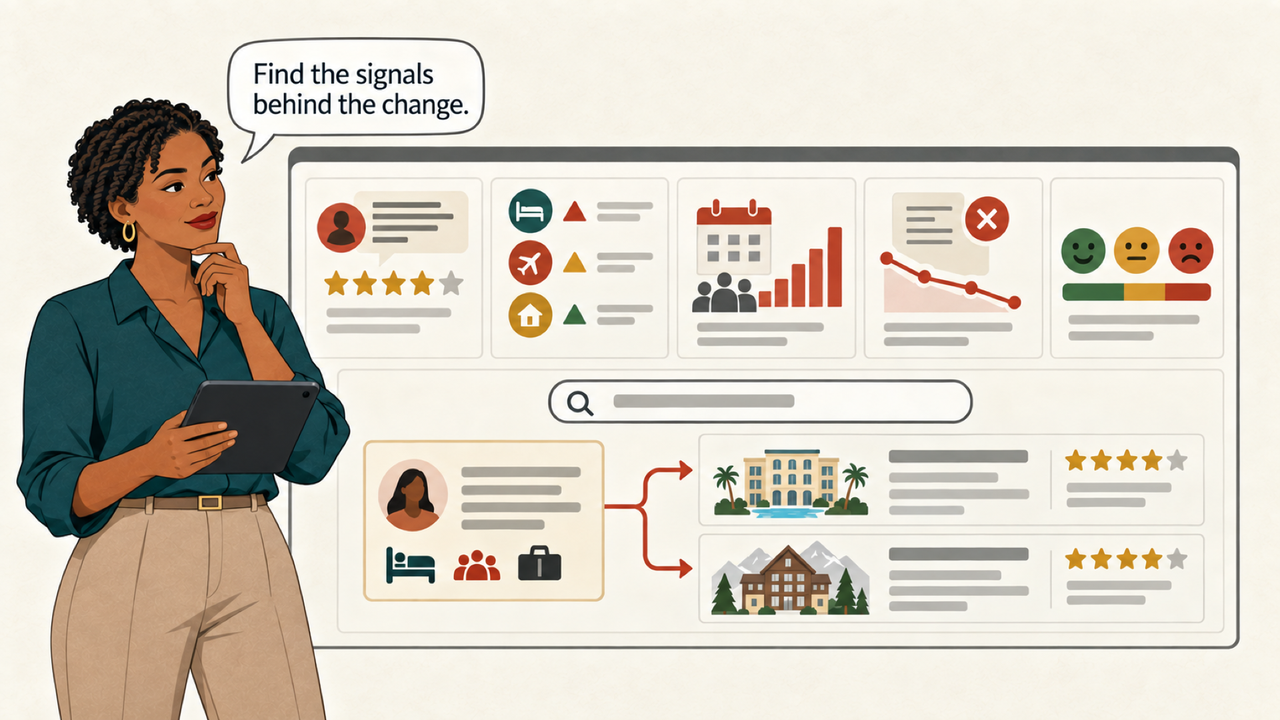
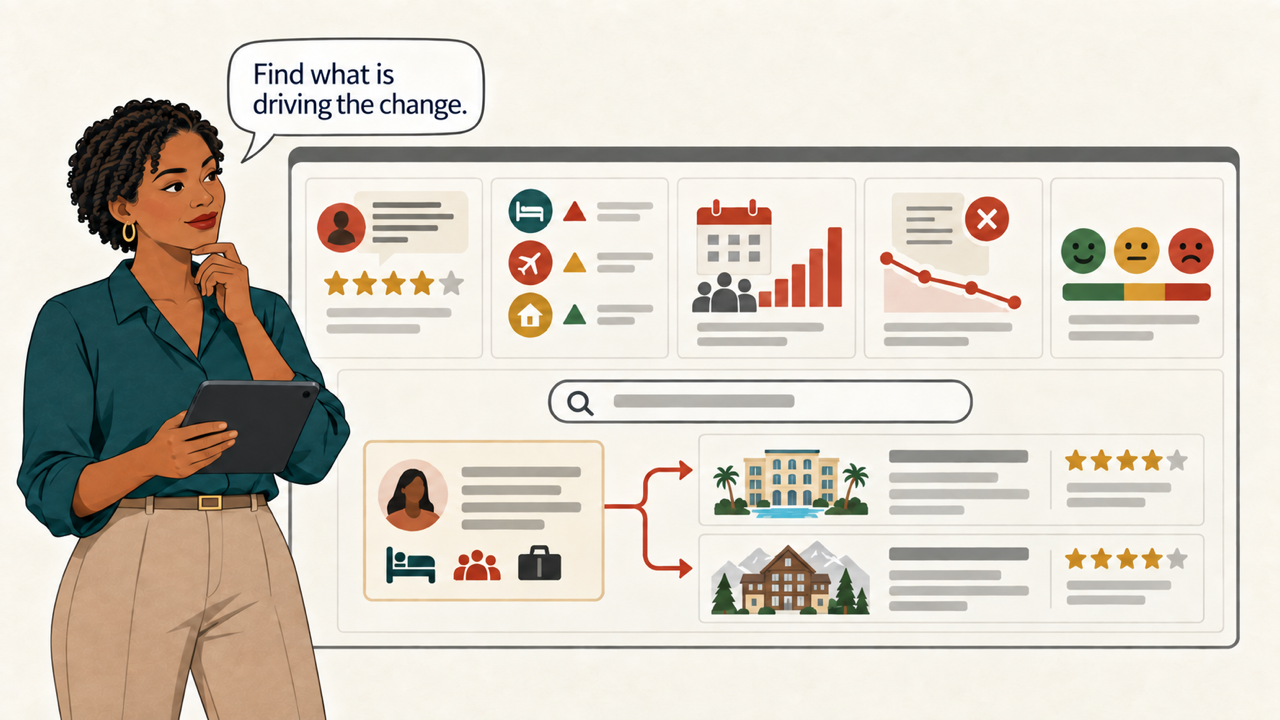
livestack-demo-hospitality-runbook-update (#176)
* build-plan update

* big-star-retail-ai-agent container

Hosts compose files to spin up locally on any environment.

* update big-star-retial

* Created .env.example

* livelabs-livestack-big-star-retail-screenshots-update

* some code changes in the stack.

some code changes in the stack.

* Changes to Compose yml and stack.

* main.py changes

In main.py:324, the / route was using the old template API:

  return templates.TemplateResponse("index.html", {"request": request})

  With the FastAPI/Starlette version in this container, TemplateResponse now expects:

  TemplateResponse(request, name, context=...)

  So the old call was effectively passing the context dict where the template name should go, which caused:

  TypeError: unhashable type: 'dict'

  I changed it to:

  return templates.TemplateResponse(request, "index.html")

  That’s what removed the 500 Internal Server Error on GET /. Nothing in the database, ORDS, or Ollama stack was changed.

* Seer Sporting Goods LiveStack WMS ID: 12050

* resized images

resized images

* html patch

* update ll-demo-agent LiveStack markdown

* Adding Windows Powershell Commands

* Minor change

* social-commerce-the-tim-app-livestack-and-guide

* Oracle Augmented Card Authorisation App

* Updated image sizes

* Updated naming

* oracle-augmented-bank updates to match new screenshots

* resized images

* Updated Seer Equities story

* port reference updates in documents.

* Finance Edition LiveStack Runbook
[…]

diff --git a/aidatabaseindustrylivestack/hospitality/scene-2-property-performance-command-center/scene-2-property-performance-command-center.md b/aidatabaseindustrylivestack/hospitality/scene-2-property-performance-command-center/scene-2-property-performance-command-center.md
@@ -2,7 +2,7 @@
 
 ## Introduction
 
-With the shared dataset restored, Sofia Ramirez opens the portfolio review with Marcus Chen. A rise in group demand is increasing revenue opportunity, but room-readiness pressure could put upcoming arrivals at risk. They must identify which properties and room types need attention before the pattern affects occupancy, guest experience, or posted revenue.
+With the data ready, Sofia and Marcus open the portfolio dashboard. Group bookings are rising, but room readiness is falling behind. They need to find the properties and room types most likely to feel the squeeze.
 
 Estimated time: 10 minutes.
 
@@ -12,27 +12,27 @@ Estimated time: 10 minutes.
 
 ### Objectives
 
-Identify a property-performance pattern and trace it from the dashboard to signals, service operations, analytics, or owner review.
+Find a property-performance problem and follow it into guest activity, service operations, forecasts, or the owner review.
 
 ## Task 1 Review portfolio KPIs
 
-Use the portfolio overview to establish the issue before opening the detailed signals.
+Start with the portfolio overview before opening the detail.
 
 ![Property Performance navigation, story context, and portfolio indicators highlighted](images/portfolio-kpis.png)
 
 1. Select **Property Performance Command Center**.
 2. Review the story panel to identify the demand, room-readiness, guest-experience, and revenue pattern under investigation.
-3. Review reservations, revenue impact, critical guest signals, room types under review, and recorded AI decisions. Treat **Revenue Impact** as booked reservation value on this dashboard, not posted room revenue from folios.
+3. Review reservations, revenue impact, critical guest issues, room types under review, and recorded AI decisions. Treat **Revenue Impact** as booked reservation value on this dashboard, not posted room revenue from folios.
 
-## Task 2 Review demand signal velocity
+## Task 2 Review demand activity over time
 
-Compare the long-range signal pattern with the revenue categories affected by it.
+Compare the long-range demand pattern with the revenue categories affected by it.
 
 ![Guest and Demand Signal Velocity controls, one-year chart, and revenue-impact chart highlighted](images/demand-signal-velocity.png)
 
 1. Locate **Guest and Demand Signal Velocity**.
-2. Select **1y** to load the full synthetic signal history in weekly buckets. Use the shorter controls when you need a recent operating window.
-3. Review the chart for sustained increases, recurring spikes, and the most recent change in signal volume.
+2. Select **1y** to load the full synthetic history in weekly buckets. Use the shorter controls for a recent operating window.
+3. Review the chart for sustained increases, recurring spikes, and the latest change in activity.
 4. Compare the velocity pattern with **Revenue Impact by Room Type and Revenue Center** to identify the categories that need closer review.
 
 ## Task 3 Review high-demand room types
@@ -43,8 +43,8 @@ Use the operational-risk table to select the room type, revenue center, or prope
 
 1. Scroll to **Room Type or Revenue Centers Under Operational Risk Review**.
 2. Enter a room type, revenue center, or property in the search field. Use a property chip beside the field when you want to narrow the list further.
-3. Compare guest signals, revenue impact, issue severity, and signal trend for the filtered results.
-4. Select a row to open its capacity and guest-signal details.
+3. Compare guest activity, revenue impact, issue severity, and the trend for the filtered results.
+4. Select a row to open its capacity and guest details.
 
 ## Credits and Build Notes
 

diff --git a/aidatabaseindustrylivestack/hospitality/scene-3-guest-and-demand-signal-intelligence/scene-3-guest-and-demand-signal-intelligence.md b/aidatabaseindustrylivestack/hospitality/scene-3-guest-and-demand-signal-intelligence/scene-3-guest-and-demand-signal-intelligence.md
@@ -2,43 +2,43 @@
 
 ## Introduction
 
-The command center points Sofia and Marcus toward room-readiness exposure, but the dashboard does not explain its cause. Amara Okafor now examines guest feedback, booking-channel alerts, event pressure, cancellations, and service complaints to find the evidence behind the change. Her task is to identify the strongest signal and choose the operational record that can confirm it.
+The dashboard shows where pressure is building, not why. Amara checks guest feedback, booking alerts, cancellations, events, and service complaints to find what is driving the change.
 
 Estimated time: 10 minutes.
 
-![Amara searches guest and demand signals for the evidence behind a portfolio change](images/story-guest-demand-signals.png)
+![Amara searches guest feedback and booking activity to understand a portfolio change](images/story-guest-demand-signals.png)
 
 ![Guest and Demand Signal Intelligence](images/guest-and-demand-signal-intelligence.png)
 
 ### Objectives
 
-Use semantic search and signal evidence to connect a portfolio pattern to guest, channel, room-type, reservation, and service context.
+Use semantic search to connect a portfolio problem with the relevant guest, channel, room-type, reservation, and service records.
 
-## Task 1 Review the signal feed
+## Task 1 Review the activity feed
 
-![Review the operational signal feed](images/signal-feed.png)
+![Review the operational activity feed](images/signal-feed.png)
 
 1. Select **Guest & Demand Signal Intelligence** from the navigation menu.
 2. Use **All Severity**, **Signal Source**, and **Operational Risk Category** to narrow the feed when a specific issue needs review.
 3. Check the bulletin count to confirm that the selected filters changed the result set.
 4. Review the first bulletin's source, severity, timestamp, revenue impact, open service requests, and AI Issue Score.
 
-## Task 2 Search hospitality evidence
+## Task 2 Search related hotel records
 
-![Search room-type and revenue-center evidence](images/semantic-evidence-search.png)
+![Search related room-type and revenue-center records](images/semantic-evidence-search.png)
 
 1. Enter **housekeeping delays tied to arrival pressure** in **Room Type & Revenue Center Intelligence Search**.
 2. Select **Search**.
 3. Confirm that Oracle AI Database returns a ranked list of matches for the query.
-4. Compare the top results by property, category, linked signals, revenue impact, and AI Match Score. Relevant results can rank even when they do not repeat the exact search phrase.
+4. Compare the top results by property, category, linked guest activity, revenue impact, and AI Match Score. A useful result may rank highly even when it does not repeat the exact search phrase.
 
-## Task 3 Escalate the right evidence
+## Task 3 Open the right operating record
 
-![Trace an operational signal into the network graph](images/signal-escalation.png)
+![Open a guest issue in the network graph](images/signal-escalation.png)
 
 1. Enter **OTA overbooking guest recovery** in the activity-feed search field.
 2. Select **Go**.
-3. Confirm that the result count and evidence-ranked search label appear.
+3. Confirm that the result count and semantic ranking label appear.
 4. Review the highest-ranked bulletin's match score, source, severity, property context, revenue impact, and open service requests. Record the property, service, and room-type terms needed for the next investigation.
 
 **Next:** After completing the investigation, continue with **Scene 4: Guest Experience Network Graph**.

diff --git a/aidatabaseindustrylivestack/hospitality/introduction/introduction.md b/aidatabaseindustrylivestack/hospitality/introduction/introduction.md
@@ -4,9 +4,9 @@
 
 ## Introduction
 
-On Monday morning, Sofia Ramirez is preparing for the portfolio review when a group-demand surge begins to collide with an important arrival window. Several room types are gaining revenue opportunity, but room readiness and service capacity are tightening at the same time.
+Monday's portfolio review has barely started when Sofia Ramirez spots a problem. Group bookings are climbing, but several hotels are short on ready rooms and service staff for the next arrival wave.
 
-Sofia brings together revenue strategy, guest experience, room operations, owner finance, and data specialists. They need to determine where demand is changing, which guests and rooms are exposed, how to deploy service teams, what the reservation and folio records show, what may happen next, and how to close the owner record. Every decision uses the same Oracle AI Database 26ai foundation.
+She pulls in the revenue, guest experience, room operations, finance, and data teams. Together they follow the issue from the portfolio dashboard to the owner close, with Oracle AI Database 26ai holding the data throughout.
 
 Estimated demo time: 90 minutes.
 
@@ -14,26 +14,26 @@ Estimated demo time: 90 minutes.
 
 ### Meet the Hospitality Team
 
-The runbook uses six fictional personas to make responsibility and handoffs clear.
+Six fictional team members carry the story:
 
 ![The hospitality portfolio, guest operations, finance, and data teams work together](images/story-meet-hospitality-team.png)
 
 - **Sofia Ramirez, VP Portfolio Operations:** leads the portfolio review and coordinates the final response.
 - **Marcus Chen, Director Revenue Strategy:** evaluates demand, occupancy, ADR, RevPAR, and revenue exposure.
-- **Amara Okafor, Director Guest Experience and Loyalty:** reviews guest, loyalty, channel, and service signals.
+- **Amara Okafor, Director Guest Experience and Loyalty:** reviews guest feedback, loyalty activity, booking channels, and service issues.
 - **Theo Brooks, Rooms Operations and Engineering Manager:** manages room readiness, housekeeping, maintenance, and arrival capacity.
-- **Elena Park, Owner Finance Controller:** reconciles reservation, folio, owner-close, and audit evidence.
+- **Elena Park, Owner Finance Controller:** reconciles reservations, folios, owner-close records, and the audit trail.
 - **Dev Shah, Oracle Data and AI Architect:** connects the workflow to Oracle AI Database 26ai data, analytics, and SQL.
 
 ### The Hospitality LiveStack
 
-The team works in one application backed by the same hospitality data foundation used throughout the ten scenes.
+The team works in one application, using the same hotel data from start to finish.
 
 ![Hospitality LiveStack welcome page](images/hospitality-livestack-welcome.png)
 
 ### Objectives
 
-In this LiveStack demo, you will see how hospitality leaders can use the same trusted Oracle data to improve occupancy, ADR, RevPAR, guest experience, room readiness, service capacity, revenue assurance, and owner reporting.
+Follow the team as they work through occupancy, ADR, RevPAR, guest experience, room readiness, service capacity, revenue assurance, and owner reporting.
 
 ### Prerequisites
 

diff --git a/aidatabaseindustrylivestack/hospitality/scene-10-owner-financial-validation-workbench/scene-10-owner-financial-validation-workbench.md b/aidatabaseindustrylivestack/hospitality/scene-10-owner-financial-validation-workbench/scene-10-owner-financial-validation-workbench.md
@@ -2,15 +2,15 @@
 
 ## Introduction
 
-Operations has acted, but Elena must still close the financial loop. She reviews an owner-close exception against its versioned rule, reservation and folio evidence, JSON detail, and recorded rationale. The scene ends when she records an explicit decision that the next close review can trace to its source.
+Before the owner close, Elena checks one exception against the rule, reservation, folio, and JSON record. She records the decision so the next reviewer can see exactly what happened.
 
 Estimated time: 10 minutes.
 
-![Elena traces an owner-close exception from its rule and source evidence to a retained decision](images/story-owner-validation.png)
+![Elena traces an owner-close exception from its rule and source records to a retained decision](images/story-owner-validation.png)
 
 ### Objectives
 
-Validate a close exception from its rule and source evidence through its owner decision and durable audit record.
+Check a close exception against its rule and source records, then save the owner decision in the audit trail.
 
 ## Task 1 Filter the close population
 
@@ -21,14 +21,14 @@ Validate a close exception from its rule and source evidence through its owner d
 3. Set the tolerance threshold used to display exceptions.
 4. Review the submitted room revenue, Oracle expected room revenue, variance, exception count, validation status, and close-readiness summary.
 
-## Task 2 Inspect validation evidence
+## Task 2 Inspect the supporting records
 
-![Owner exception header, financial values, validation rule, and supporting evidence controls highlighted](images/validation-evidence.png)
+![Owner exception header, financial values, validation rule, and supporting record controls highlighted](images/validation-evidence.png)
 
 1. Open the **Summit Resort ROOM_REVENUE** exception.
-2. Compare the submitted amount, Oracle expected amount, variance, status, and evidence count.
+2. Compare the submitted amount, Oracle expected amount, variance, status, and number of supporting items.
 3. Review the versioned validation rule and rationale.
-4. Open the formula, fee rule, AI rationale, Oracle evidence, or owner attestation needed for the decision.
+4. Open the formula, fee rule, AI rationale, Oracle source record, or owner attestation needed for the decision.
 
 All owner close records in this scene are synthetic demo data and do not describe a real property or owner.
 

diff --git a/aidatabaseindustrylivestack/hospitality/scene-1-data-foundation/scene-1-data-foundation.md b/aidatabaseindustrylivestack/hospitality/scene-1-data-foundation/scene-1-data-foundation.md
@@ -2,7 +2,7 @@
 
 ## Introduction
 
-Before the portfolio review begins, Sofia Ramirez asks Dev Shah to reset the demo environment so every team starts from the same data. Dev restores the synthetic hospitality portfolio in Oracle AI Database 26ai. Sofia then checks the live counts for properties, room types, guest signals, reservations, vector indexes, and signal-room links. Once the counts reconcile, the team can investigate property performance, guest demand, service operations, revenue, and owner value without loading separate datasets for each scene.
+Sofia wants everyone working from the same numbers. Dev restores the synthetic hotel portfolio, and Sofia checks the record counts before the review begins.
 
 Estimated time: 8 minutes.
 
@@ -21,7 +21,7 @@ Restore the data before you begin the remaining scenes.
 ![Prepare the Dataset panel with the restore action and reconciled live counts highlighted](images/prepare-dataset.png)
 
 1. Select **Restore Demo Data**.
-2. Wait for the progress indicator to reach 100%. Confirm that the page shows **187** properties and room types, **5,000** guest signals, **3,000** reservations, **187** room-type index records, **5,000** guest-signal index records, and **1,422** signal-room links.
+2. Wait for the progress indicator to reach 100%. Confirm that the page shows **187** properties and room types, **5,000 Guest Signals**, **3,000 Reservations**, **187** room-type index records, **5,000** guest-record index entries, and **1,422** guest-to-room links.
 
 Oracle AI Database 26ai supports relational, JSON, spatial, graph, and vector models in one converged database. The button starts one coordinated SQL and PL/SQL workflow that replaces the demo records, rebuilds the spatial and vector objects, and commits the restored dataset. The application also records a restore telemetry event.
 
@@ -31,7 +31,7 @@ Review the six data groups loaded by the restore.
 
 ![What Gets Loaded carousel with the data-domain cards and next control highlighted](images/what-gets-loaded.png)
 
-1. Review the first three groups: reservation records, guest and demand signals, and graph relationships.
+1. Review the first three groups: reservation records, guest and demand activity, and graph relationships.
 2. Select the right carousel control.
 3. Review the remaining groups: housekeeping and maintenance coverage, reservation documents, and occupancy forecasts.
 

diff --git a/aidatabaseindustrylivestack/hospitality/scene-6-reservation-and-folio-operations/scene-6-reservation-and-folio-operations.md b/aidatabaseindustrylivestack/hospitality/scene-6-reservation-and-folio-operations/scene-6-reservation-and-folio-operations.md
@@ -2,7 +2,7 @@
 
 ## Introduction
 
-The service response protects the arrival, but Marcus and Elena Park still need the operating and financial record behind the decision. They inspect the reservation, stay details, room assignment, group context, and posted folio activity. Their review keeps booked value separate from realized room revenue while showing the same stay through relational and JSON views.
+The arrival is covered. Marcus and Elena now check the reservation and posted folio. They compare the booked amount with room revenue and review the same stay as rows and a JSON document.
 
 Estimated time: 10 minutes.
 
@@ -14,13 +14,13 @@ Inspect the operational record behind a guest, revenue, service, or event decisi
 
 ## Task 1 Filter the operating record
 
-![Reservation navigation, VPD count, status filter, operating table, and signal-linked reservation highlighted](images/reservation-list.png)
+![Reservation navigation, VPD count, status filter, operating table, and linked guest record highlighted](images/reservation-list.png)
 
 1. Select **Reservation & Folio Operations** from the navigation menu.
 2. Confirm the reservation count visible under the active VPD context.
 3. Use **All Reservation Statuses** to narrow the operating list.
-4. Review the reservation table for guest, location, status, item count, total value, signal linkage, property hotel, and timestamp.
-5. Select reservation **#71974**, which is linked to a guest signal.
+4. Review the reservation table for guest, location, status, item count, total value, linked guest activity, property hotel, and timestamp.
+5. Select reservation **#71974**, which is linked to a guest issue.
 
 ## Task 2 Inspect reservation and folio detail
 

diff --git a/aidatabaseindustrylivestack/hospitality/scene-7-oml-occupancy-revenue-and-labor-analytics/scene-7-oml-occupancy-revenue-and-labor-analytics.md b/aidatabaseindustrylivestack/hospitality/scene-7-oml-occupancy-revenue-and-labor-analytics/scene-7-oml-occupancy-revenue-and-labor-analytics.md
@@ -2,7 +2,7 @@
 
 ## Introduction
 
-The reservation and folio records establish what has happened. Marcus and Dev now assess what may happen next by comparing OML forecasts with booking pace, cancellation risk, occupancy pressure, ADR opportunity, labor capacity, and service workload. They must keep every forecast tied to its supporting facts and avoid treating a prediction as a posted result.
+Marcus knows what has happened. Now he and Dev look ahead. They compare occupancy and revenue forecasts with booking pace, cancellations, staffing, and service workload without mistaking a prediction for posted revenue.
 
 Estimated time: 10 minutes.
 
@@ -19,7 +19,7 @@ Review predictive hospitality outputs without separating model features, results
 1. Select **OML Occupancy, Revenue & Labor Analytics** from the navigation menu.
 2. Review the model and segmentation indicators.
 3. Review the available analytics views: Booking Pace, Guest Value, Revenue Forecast, Room Cohorts, and Service Capacity.
-4. Use **Booking Pace** to compare the forecast with its operational-risk evidence. Treat the forecast as a prediction, not a posted financial result.
+4. Use **Booking Pace** to compare the forecast with the operating data behind it. Treat the forecast as a prediction, not a posted financial result.
 
 ## Task 2 Review property and capacity exposure
 

diff --git a/aidatabaseindustrylivestack/hospitality/scene-8-ask-hospitality-data/scene-8-ask-hospitality-data.md b/aidatabaseindustrylivestack/hospitality/scene-8-ask-hospitality-data/scene-8-ask-hospitality-data.md
@@ -2,15 +2,15 @@
 
 ## Introduction
 
-The team has now reviewed dashboards, signals, relationships, service capacity, operating records, and forecasts. Dev uses Ask Hospitality Data to bring those domains into one governed conversation. A follow-up question can build on the prior result, while the user can choose an explanation, inspect generated SQL, or run an authorized query.
+Dev needs an answer that crosses dashboards, reservations, and forecasts. He asks the database directly, reviews the generated SQL, then asks a follow-up without starting over.
 
 Estimated time: 10 minutes.
 
-![Dev demonstrates a governed hospitality data conversation with persistent follow-up context](images/story-ask-hospitality-data.png)
+![Dev asks a follow-up question while keeping the first result in context](images/story-ask-hospitality-data.png)
 
 ### Objectives
 
-Ask an operating question, inspect the reasoning path that the interface exposes, and keep follow-up analysis grounded in governed Oracle data.
+Ask an operating question, review how the application reached its answer, and continue with a follow-up based on the same Oracle data.
 
 ## Task 1 Ask an operating question
 

diff --git a/aidatabaseindustrylivestack/hospitality/scene-5-housekeeping-and-maintenance-coverage-map/scene-5-housekeeping-and-maintenance-coverage-map.md b/aidatabaseindustrylivestack/hospitality/scene-5-housekeeping-and-maintenance-coverage-map/scene-5-housekeeping-and-maintenance-coverage-map.md
@@ -2,7 +2,7 @@
 
 ## Introduction
 
-The graph connects the guest signal to a room-readiness issue at a property with upcoming arrivals. Theo now compares service zones, crew capacity, out-of-order rooms, event setup work, and arrival pressure. He must route housekeeping or engineering capacity without creating a new risk elsewhere in the portfolio.
+The graph points to a room-readiness problem before a busy arrival window. Theo compares nearby crews, out-of-order rooms, and event work, then decides where to send housekeeping or engineering support.
 
 Estimated time: 8 minutes.
 
@@ -10,7 +10,7 @@ Estimated time: 8 minutes.
 
 ### Objectives
 
-Use geographic and capacity evidence to decide where housekeeping, engineering, and event setup work can be routed without worsening arrival risk.
+Use location and capacity data to decide where housekeeping, engineering, and event crews can help without leaving another hotel short-staffed.
 
 ## Task 1 Review coverage priorities
 

diff --git a/aidatabaseindustrylivestack/hospitality/scene-4-guest-experience-network-graph/scene-4-guest-experience-network-graph.md b/aidatabaseindustrylivestack/hospitality/scene-4-guest-experience-network-graph/scene-4-guest-experience-network-graph.md
@@ -2,11 +2,11 @@
 
 ## Introduction
 
-Amara finds a guest signal that appears across more than one operational record. She asks Theo Brooks to trace how it connects to reservations, rooms, service requests, maintenance events, channels, and properties. The graph helps them isolate the relationship path that matters before an operations team is dispatched.
+One guest issue touches several records. Amara and Theo use the graph to follow it through the reservation, room, service request, maintenance work, booking channel, and property.
 
 Estimated time: 8 minutes.
 
-![Amara and Theo trace a guest signal through reservations, rooms, service work, and the property](images/story-guest-network.png)
+![Amara and Theo trace a guest issue through reservations, rooms, service work, and the property](images/story-guest-network.png)
 
 ### Objectives
 

diff --git a/aidatabaseindustrylivestack/hospitality/scene-9-hospitality-agent-console/scene-9-hospitality-agent-console.md b/aidatabaseindustrylivestack/hospitality/scene-9-hospitality-agent-console/scene-9-hospitality-agent-console.md
@@ -2,7 +2,7 @@
 
 ## Introduction
 
-The conversational analysis identifies properties that need coordinated guest care, housekeeping, and engineering attention. Sofia brings Amara and Theo into the Hospitality Agent Console to turn that evidence into a scoped response. They review the specialist routing, refine the question through follow-ups, and confirm that the recommendation and tool activity are retained in the audit trail.
+The answer points to properties that need guest care, housekeeping, and engineering. Sofia, Amara, and Theo use the Agent Console to assign the right specialists, refine the request, and check the action log.
 
 Estimated time: 8 minutes.
 
